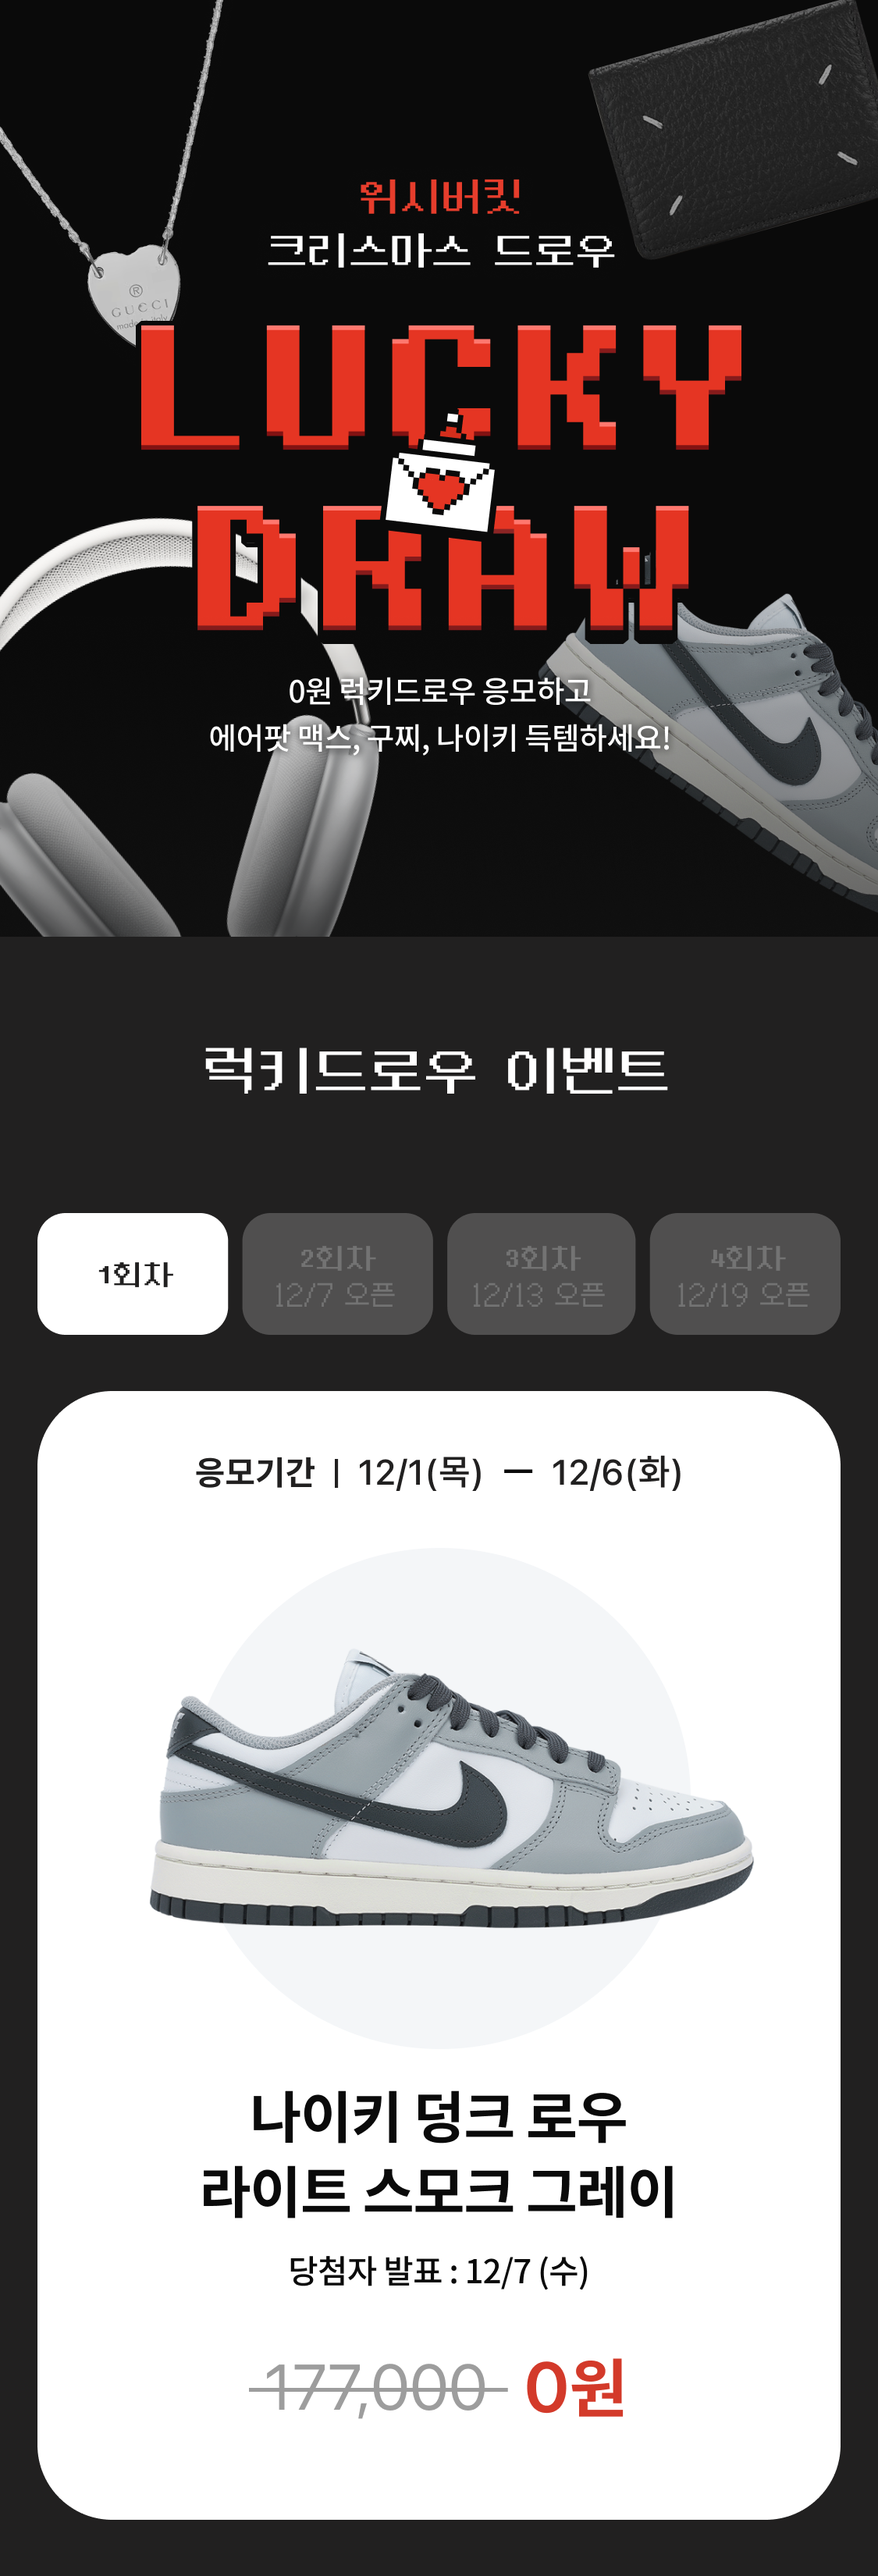
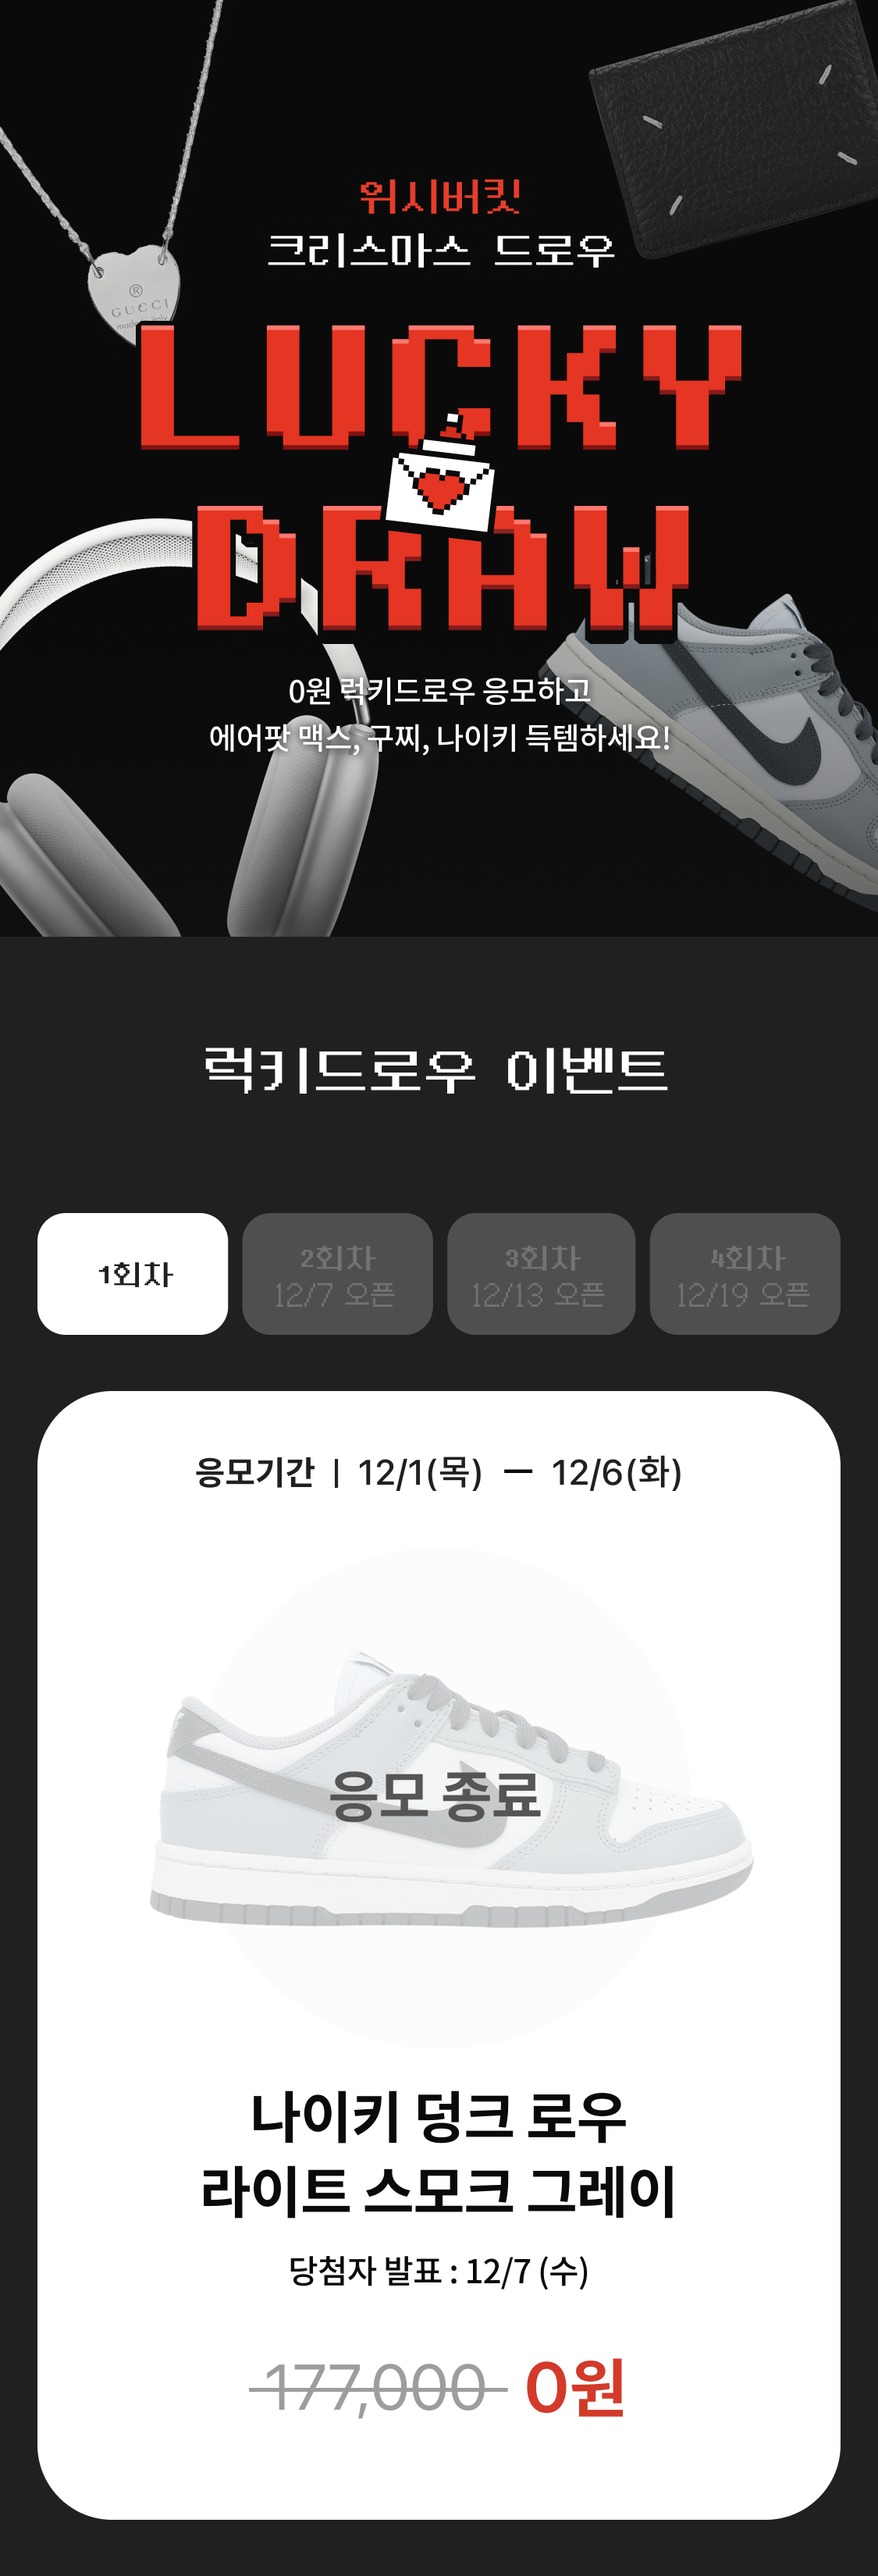
changed img / btn added

Changed region(s): [[0.1556, 0.6242, 0.8711, 0.7491]]

diff --git a/xmasEvent_2022/rafflePromo_01.html b/xmasEvent_2022/rafflePromo_01.html
@@ -22,6 +22,12 @@
 
   	</div>	
 
+  	<!--하단 버튼-->
+		<a class="img" id="btn" href="https://app.wishbucket.io/promo19">
+	     		 <img class="btn_img" src="files/nextRaffle.png"/>
+	  	</a>
+
+
 
 	<!-- 럭키드로우 스케쥴 / 팁 -->	
 
